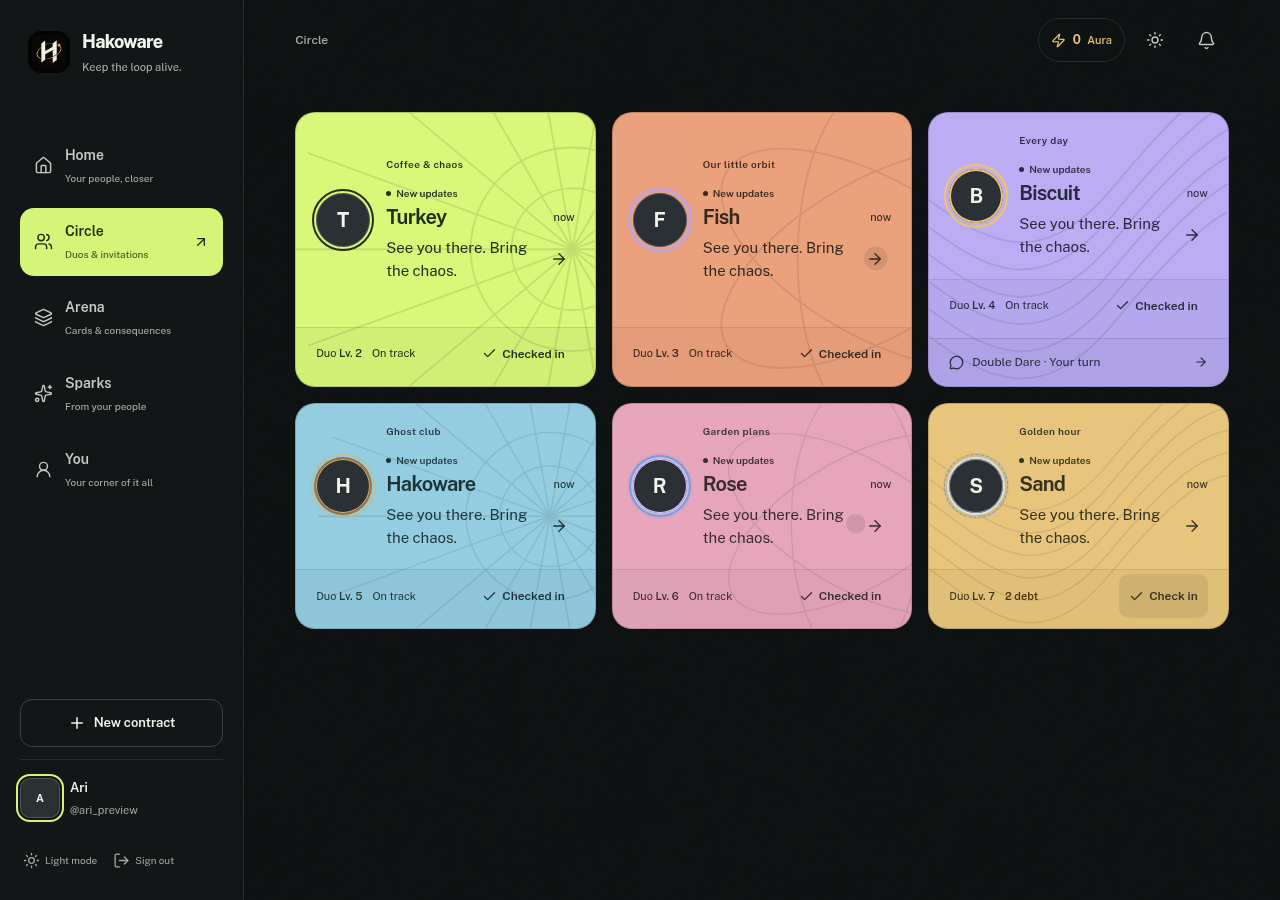
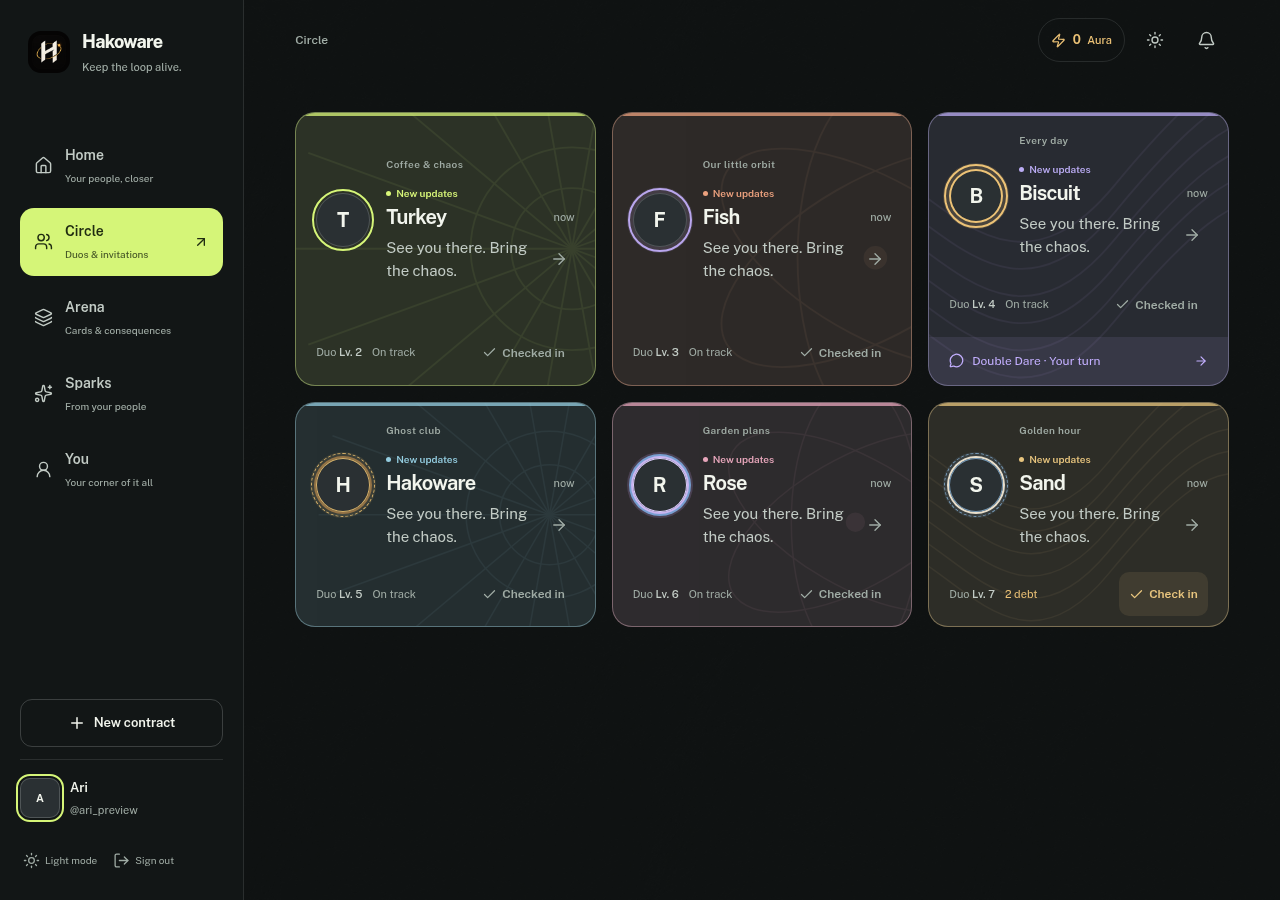
Restore subtle homepage styling for Duo cards

diff --git a/src/features/friendship/components/FriendCard.css b/src/features/friendship/components/FriendCard.css
@@ -1,42 +1,49 @@
 
-.friend-card { --duo-card-ink:color-mix(in srgb,var(--duo-ink) 40%,#14201c); display:flex; flex-direction:column; min-width:0; padding:0; position:relative; border:1px solid color-mix(in srgb,var(--duo-card-ink) 24%,transparent); border-radius:20px; background:var(--duo-accent); color:var(--duo-card-ink); }
-.friend-card.danger { border-color:#94362d; }
-.friend-card-open { width:100%; min-height:100px; display:flex; align-items:center; gap:16px; padding:20px; text-align:left; color:var(--duo-card-ink); }
+.friend-card { --duo-label:var(--duo-accent); --duo-surface:color-mix(in srgb,var(--duo-accent) 10%,var(--surface-card)); display:flex; flex-direction:column; min-width:0; padding:0; position:relative; border-bottom:1px solid var(--border-subtle); }
+.friend-card.has-new { border:1px solid color-mix(in srgb,var(--duo-label) 35%,var(--border-subtle)); border-radius:20px; background:var(--duo-surface); overflow:hidden; }
+.friend-card.danger { border:1px solid color-mix(in srgb,var(--aura-red) 42%,var(--border-subtle)); border-radius:20px; background:var(--duo-surface); overflow:hidden; }
+.friend-card-open { width:100%; min-height:100px; display:flex; align-items:center; gap:16px; padding:20px; text-align:left; color:var(--text-primary); }
 .friend-card-open > .user-avatar { width:54px; height:54px; flex:0 0 54px; border-radius:50%; font-size:1.25rem; }
-.friend-card .avatar-frame-linked { outline-color:var(--duo-card-ink); }
 .friend-card-copy { min-width:0; flex:1; }
 .friend-card-identity { display:flex; align-items:center; justify-content:space-between; gap:12px; margin-bottom:7px; }
 .friend-card-identity > strong { font-size:1.25rem; font-weight:650; letter-spacing:-.035em; overflow-wrap:anywhere; line-height:1.15; }
-.friend-card-time { font-size:.6875rem; color:var(--duo-card-ink); flex:0 0 auto; font-weight:450; }
+.friend-card-time { font-size:.6875rem; color:var(--text-muted); flex:0 0 auto; font-weight:450; }
 .friend-card-preview-line { display:flex; align-items:center; gap:12px; }
-.friend-card-preview { display:-webkit-box; -webkit-box-orient:vertical; -webkit-line-clamp:2; overflow:hidden; flex:1; font-size:.9375rem; line-height:1.55; color:var(--duo-card-ink); }
-.friend-card-preview.is-empty { color:var(--duo-card-ink); }
-.friend-card-open-arrow { width:32px; height:32px; flex:0 0 auto; display:grid; place-items:center; color:var(--duo-card-ink); }
-.friend-card-unread { display:inline-flex; align-items:center; gap:5px; color:var(--duo-card-ink); font-size:.625rem; font-weight:600; margin-bottom:5px; }
+.friend-card-preview { display:-webkit-box; -webkit-box-orient:vertical; -webkit-line-clamp:2; overflow:hidden; flex:1; font-size:.9375rem; line-height:1.55; color:var(--text-secondary); }
+.friend-card-preview.is-empty { color:var(--text-muted); }
+.friend-card-open-arrow { width:32px; height:32px; flex:0 0 auto; display:grid; place-items:center; color:var(--text-muted); }
+.friend-card-unread { display:inline-flex; align-items:center; gap:5px; color:var(--duo-label); font-size:.625rem; font-weight:600; margin-bottom:5px; }
 .friend-card-unread::before { content:''; width:5px; height:5px; border-radius:50%; background:currentColor; }
-.friend-card-footer { border-top:1px solid color-mix(in srgb,var(--duo-card-ink) 12%,transparent); background:color-mix(in srgb,var(--duo-card-ink) 4%,transparent); border-radius:0 0 19px 19px; min-height:54px; display:flex; align-items:center; justify-content:space-between; gap:12px; padding:4px 20px 10px; }
+.friend-card-footer { min-height:54px; display:flex; align-items:center; justify-content:space-between; gap:12px; padding:4px 20px 10px; }
 .friend-card-contract { min-width:0; display:flex; flex-wrap:wrap; align-items:center; gap:6px 10px; }
-.friend-card-duo { font-size:.6875rem; color:var(--duo-card-ink); }
-.friend-card-duo b { font-weight:550; color:var(--duo-card-ink); }
-.friend-card-state { font-size:.6875rem; color:var(--duo-card-ink); }
-.friend-card-state.gold { color:#53330c; font-weight:600; }
-.friend-card-state.danger { color:#6b241f; font-weight:600; }
-.friend-card-checkin { min-height:44px; display:flex; align-items:center; gap:5px; padding:0 10px; border-radius:10px; color:var(--duo-card-ink); font-size:.75rem; font-weight:600; flex:0 0 auto; background:color-mix(in srgb,var(--duo-card-ink) 10%,transparent); }
-.friend-card-checkin:disabled { background:transparent; color:var(--duo-card-ink); opacity:1; }
-.friend-card-moment { width:100%; min-height:48px; padding:10px 20px; display:flex; align-items:center; gap:8px; border-top:1px solid color-mix(in srgb,var(--duo-card-ink) 16%,transparent); border-radius:0 0 19px 19px; background:color-mix(in srgb,var(--duo-card-ink) 8%,transparent); color:var(--duo-card-ink); text-align:left; font-size:.75rem; line-height:1.5; }
+.friend-card-duo { font-size:.6875rem; color:var(--text-muted); }
+.friend-card-duo b { font-weight:550; color:var(--text-secondary); }
+.friend-card-state { font-size:.6875rem; color:var(--text-muted); }
+.friend-card-state.gold { color:var(--aura-gold); }
+.friend-card-state.danger { color:var(--aura-red); }
+.friend-card-checkin { min-height:44px; display:flex; align-items:center; gap:5px; padding:0 10px; border-radius:10px; color:var(--duo-label); font-size:.75rem; font-weight:600; flex:0 0 auto; background:color-mix(in srgb,var(--duo-label) 10%,transparent); }
+.friend-card-checkin:disabled { background:transparent; color:var(--text-muted); opacity:1; }
+.friend-card-moment { width:100%; min-height:48px; padding:10px 20px; display:flex; align-items:center; gap:8px; background:var(--play-violet-soft); color:var(--play-violet); text-align:left; font-size:.75rem; line-height:1.5; }
 .friend-card-moment > span { min-width:0; flex:1; }
 .friend-card-moment > svg { flex:0 0 auto; }
+.friend-card-featured { background:var(--duo-surface); border:1px solid color-mix(in srgb,var(--duo-label) 25%,var(--border-subtle)); border-radius:20px; overflow:hidden; }
 .friend-card-featured .friend-card-open { align-items:flex-start; padding:24px 24px 14px; min-height:154px; }
 .friend-card-featured .friend-card-open > .user-avatar { width:64px; height:64px; flex-basis:64px; }
 .friend-card-featured .friend-card-identity { margin-top:4px; margin-bottom:10px; }
 .friend-card-featured .friend-card-identity strong { font-size:1.875rem; font-weight:700; }
 .friend-card-featured .friend-card-footer { padding-inline:24px; padding-bottom:14px; }
-@media(hover:hover) and (pointer:fine) { .friend-card-open:hover { background:color-mix(in srgb,var(--duo-card-ink) 5%,transparent); } .friend-card-checkin:not(:disabled):hover { filter:brightness(1.1); } }
+.friend-card-featured .friend-card-checkin { background:var(--surface-card); }
+.friend-card-featured.danger { background:var(--duo-surface); }
+@media(hover:hover) and (pointer:fine) { .friend-card-open:hover { background:var(--surface-soft); } .friend-card-checkin:not(:disabled):hover { filter:brightness(1.1); } }
 @media(max-width:600px) { .friend-card-open { gap:12px; padding:18px 16px; } .friend-card-open > .user-avatar { width:46px; height:46px; flex-basis:46px; } .friend-card-identity > strong { font-size:1.125rem; } .friend-card-preview { font-size:.875rem; } .friend-card-footer { padding-inline:16px; } .friend-card-featured .friend-card-open { min-height:128px; padding:20px 18px 12px; gap:14px; } .friend-card-featured .friend-card-open > .user-avatar { width:52px; height:52px; flex-basis:52px; } .friend-card-featured .friend-card-identity strong { font-size:1.5rem; } .friend-card-featured .friend-card-footer { padding-inline:18px; } }
-.friend-card-surface { flex:1; display:flex; flex-direction:column; position:relative; isolation:isolate; border-radius:inherit; }
+.friend-card-surface { flex:1; display:flex; flex-direction:column; position:relative; isolation:isolate; overflow:hidden; }
+.friend-card-surface > .friend-card-cover { opacity:.065; z-index:-1; }
 .friend-card-main { flex:1; display:flex; flex-direction:column; }
-.friend-card-surface > .friend-card-cover { color:var(--duo-card-ink); opacity:.12; z-index:-1; clip-path:inset(0 round 19px); }
-.friend-card-open { flex:1; border-radius:19px 19px 0 0; }
-.friend-card:has(.friend-card-moment) .friend-card-footer { border-radius:0; }
-.friend-card :focus-visible { outline-color:var(--duo-card-ink); outline-offset:-3px; }
-.friend-card-duo-name { display:block; color:var(--duo-card-ink); font-size:.625rem; font-weight:600; letter-spacing:.04em; margin-bottom:7px; overflow:hidden; white-space:nowrap; text-overflow:ellipsis; }
+.friend-card-open { flex:1; }
+[data-theme='light'] .friend-card { --duo-label:var(--duo-ink); }
+.friend-card-duo-name { display:block; color:var(--text-muted); font-size:.625rem; font-weight:600; letter-spacing:.04em; margin-bottom:7px; overflow:hidden; white-space:nowrap; text-overflow:ellipsis; }
+.friend-card-surface::after { content:''; position:absolute; inset:0 0 auto; height:3px; background:var(--duo-accent); opacity:.75; pointer-events:none; }
+.friend-card:not(.has-new):not(.danger):not(.friend-card-featured) .friend-card-open { padding-inline:0; }
+.friend-card:not(.has-new):not(.danger):not(.friend-card-featured) .friend-card-surface { overflow:visible; }
+.friend-card:not(.has-new):not(.danger):not(.friend-card-featured) .friend-card-footer { padding:4px 0 16px; }
+.friend-card:not(.has-new):not(.danger):not(.friend-card-featured) .friend-card-cover,.friend-card:not(.has-new):not(.danger):not(.friend-card-featured) .friend-card-surface::after { display:none; }

diff --git a/src/shared/components/DuoIdentity.css b/src/shared/components/DuoIdentity.css
@@ -1,13 +1,12 @@
 .duo-cover { position:absolute; inset:0; width:100%; height:100%; color:var(--duo-accent,#d9f779); opacity:.25; pointer-events:none; }
-.duo-identity { --duo-card-ink:color-mix(in srgb,var(--duo-ink) 40%,#14201c); position:relative; isolation:isolate; padding:28px; border-radius:22px; border:1px solid color-mix(in srgb,var(--duo-card-ink) 24%,transparent); background:var(--duo-accent); color:var(--duo-card-ink); }
-.duo-identity > .duo-cover { color:var(--duo-card-ink); opacity:.12; clip-path:inset(0 round 22px); }
+.duo-identity { position:relative; isolation:isolate; padding:28px; border-radius:22px; border:1px solid var(--border-active); background:color-mix(in srgb,var(--duo-accent) 10%,var(--surface-card)); }
+.duo-identity > .duo-cover { clip-path:inset(0 round 22px); }
 .duo-identity-people,.duo-identity-copy { position:relative; }
 .duo-identity-people { display:flex; align-items:center; margin-bottom:26px; }
-.duo-identity-people .user-avatar { border:3px solid var(--duo-accent); border-radius:50%; width:48px; height:48px; }
+.duo-identity-people .user-avatar { border:3px solid var(--surface-card); border-radius:50%; width:48px; height:48px; }
 .duo-identity-people .user-avatar + .user-avatar { margin-left:-12px; }
-.duo-identity .avatar-frame-linked { outline-color:var(--duo-card-ink); }
-.duo-identity-people > span { margin-left:12px; font-size:.8125rem; color:var(--duo-card-ink); }
-.duo-identity-kicker { color:var(--duo-card-ink); font-size:.6875rem; letter-spacing:.08em; text-transform:uppercase; }
+.duo-identity-people > span { margin-left:12px; font-size:.8125rem; color:var(--text-secondary); }
+.duo-identity-kicker { color:var(--text-secondary); font-size:.6875rem; letter-spacing:.08em; text-transform:uppercase; }
 .duo-identity h2 { font-size:clamp(1.6rem,3vw,2.6rem); line-height:1.1; letter-spacing:-.045em; overflow-wrap:anywhere; margin-top:12px; max-width:20ch; }
 .duo-identity-card { padding:24px; }
 .duo-identity-card h2 { font-size:1.5rem; }

diff --git a/docs/duo-cards-and-chat-keyboard.md b/docs/duo-cards-and-chat-keyboard.md
@@ -1,8 +1,8 @@
-# Full Duo cards and chat keyboard layout
+# Duo card tint and chat keyboard layout
 
-The selected Duo palette now fills the entire friendship card. Citron, Clay, Iris, Sky, Rose and Sand use matching dark text, with Orbits, Waves or Rays across the full surface. Read cards retain the design; new updates use their own label instead of replacing every palette with the same green background. The Duo editor and profile preview show the same treatment.
+The friendship cards keep the earlier homepage treatment: subtle tinted surfaces, pale text in dark mode, and open rows for quieter read conversations. Featured cards and cards with new updates use the selected Duo colour across their full surface. Citron, Clay, Iris, Sky, Rose and Sand use a light tint mixed with the app surface, with Orbits, Waves or Rays behind the content. Update labels and accents follow the selected palette, using a darker palette colour in light mode for readability. The Duo editor, homepage hero and profile preview use the same subtle tint.
 
-Cover graphics are clipped separately from the card content, preserving avatar frames. Equal-height grid cards fill their available space and keep the footer at the bottom. Linked frames use a darker outline on these coloured surfaces so the ring stays visible against Citron.
+Cover graphics are clipped separately in the identity preview, preserving avatar frames. Friendship cards retain the previous padding and open-row overflow handling. Equal-height highlighted grid cards fill their available space and keep the footer at the bottom. Earned avatar frames retain their original colours.
 
 The chat previously updated its height when the keyboard opened, but ignored Safari's viewport offset and subsequent pan events. The friend-space shell now follows both the visible height and top offset, listens for resize and scroll, and removes its listeners and inline sizing on exit. Pinch zoom keeps normal browser behaviour. A resize observer follows the latest message, while deliberate scrolling into history preserves that position. Resize-driven scroll events do not change the history/following state.
 
@@ -13,7 +13,7 @@ While the keyboard is open, the header becomes shorter, long drafts scroll withi
 - Production build passes; ESLint reports zero errors and 421 existing warnings.
 - All 17 frontend activity, next-move and bank-retry checks pass.
 - Presentation, friend-space and client-payload suites pass, covering identity ownership, unchanged Aura/XP/rules, private messages, message idempotency, voice ownership and contract progression.
-- Chromium checks at 320, 390, 768 and 1280 pixels in both themes cover all six palettes, all three covers, read/unread and featured cards, frame clipping, text contrast, identity preview/save, and conversation actions.
+- Chromium checks at 320, 390 and 1280 pixels in both themes cover all six subtle palettes, all three covers, read/unread and featured cards, frame clipping, text contrast, identity preview/save, and conversation actions.
 - Simulated keyboard heights of 360, 390 and 210 pixels include a scroll-only pan, multiline drafts, sending, real history scrolling, close/reopen geometry, pinch-zoom handling and listener cleanup. The CSS fallback also works without `visualViewport`.
 - Existing chat browser checks pass for receipts, grouping, long text, voice bubbles, all six message colours, failed delivery and a single-message retry using the original request key.
 

diff --git a/HANDOFF.md b/HANDOFF.md
@@ -16,7 +16,7 @@
 
 ## Latest checkpoint — 2026-10-13
 
-Friendship cards now use the selected Duo colour and cover across their entire surface, including read cards and the editor/profile preview. Mobile chat follows the visible viewport's height and offset through keyboard resize/pan events, with compact typing controls and preserved history scrolling. Verification and review images: [Duo cards and chat keyboard](docs/duo-cards-and-chat-keyboard.md). Physical iPhone Safari and this change's production deployment remain unverified.
+Friendship cards keep the earlier homepage style: subtle selected Duo tints on highlighted cards, readable theme text, and open rows for quieter read conversations. The selected colour and cover extend across highlighted surfaces and the editor/profile preview. Mobile chat follows the visible viewport's height and offset through keyboard resize/pan events, with compact typing controls and preserved history scrolling. Verification and review images: [Duo cards and chat keyboard](docs/duo-cards-and-chat-keyboard.md). Physical iPhone Safari and this change's production deployment remain unverified.
 
 Stripe Checkout, cosmetic gifting, owned receipts/reveals and first-party product journeys are implemented. The user operates from Nigeria and chose to establish an eligible supported-country Stripe account. Sales remain disabled until keys, prices and merchant configuration exist. Use [Stripe checkout and gifting](docs/stripe-checkout-and-gifting.md) for activation and validation. Never treat local Stripe fixtures as live payment verification. The CORS/domain fix was separately pushed as `f7347ab`; it allows `hakoware.xyz` and `www.hakoware.xyz` even with the legacy Vercel CORS environment values. Set Railway's `FRONTEND_URL=https://hakoware.xyz` for outgoing links and checkout returns.
 
